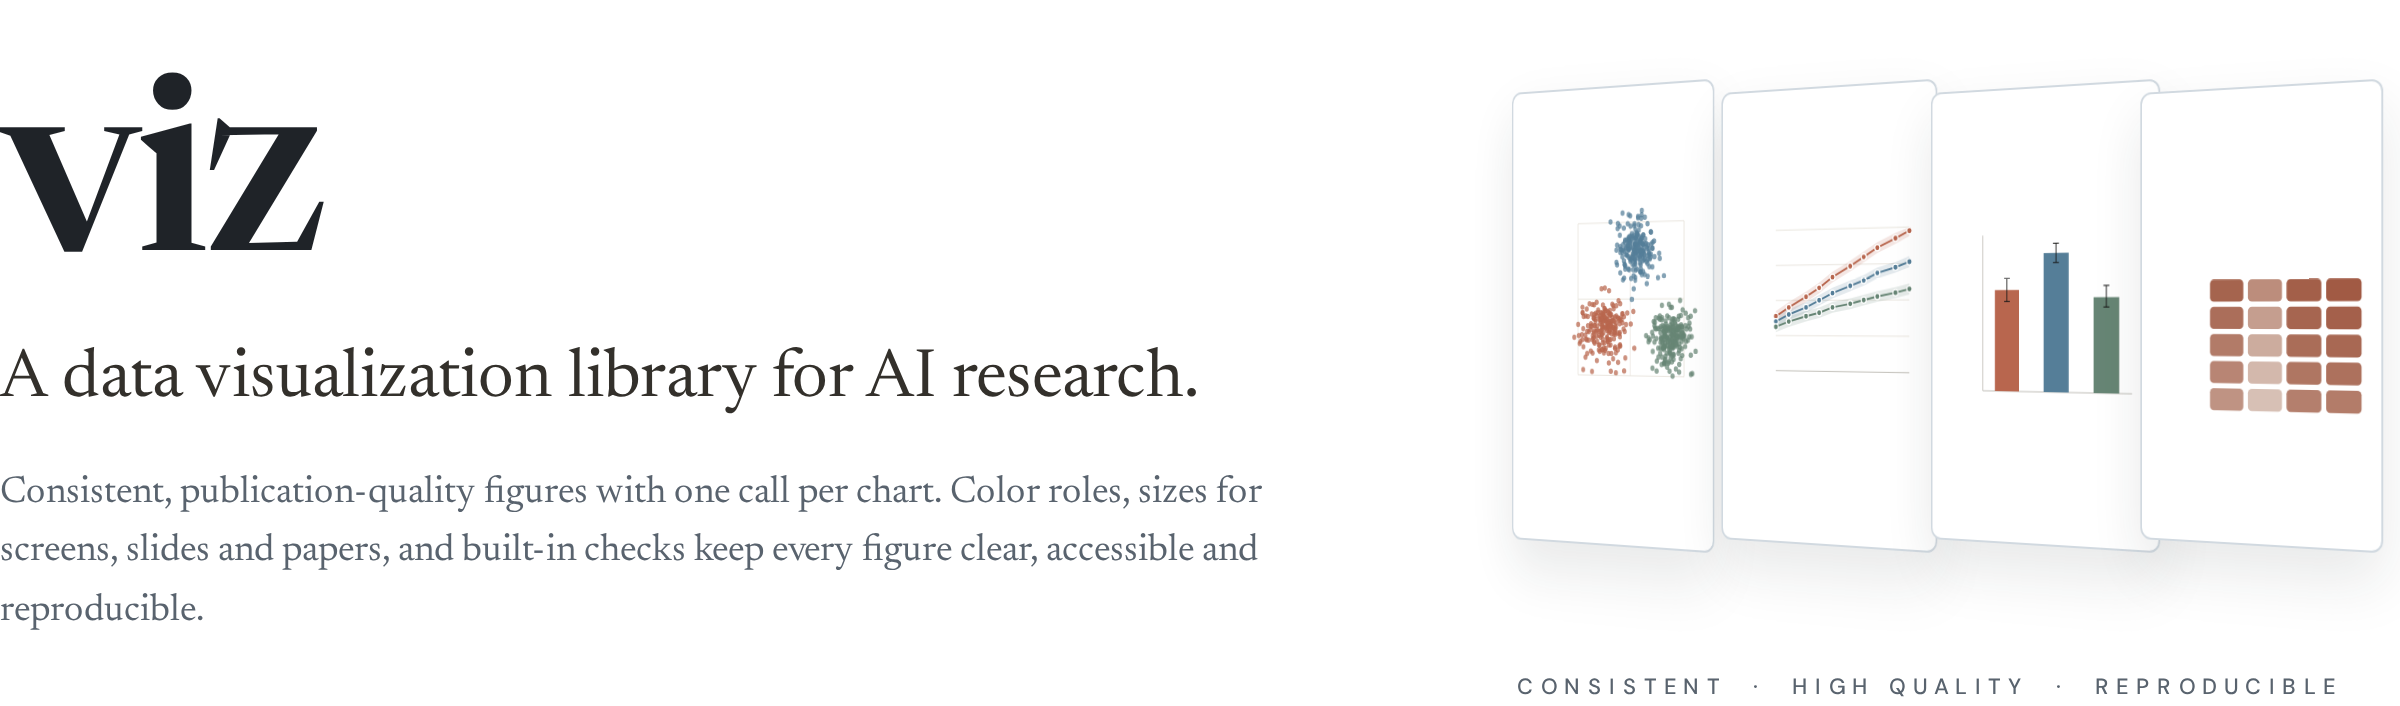
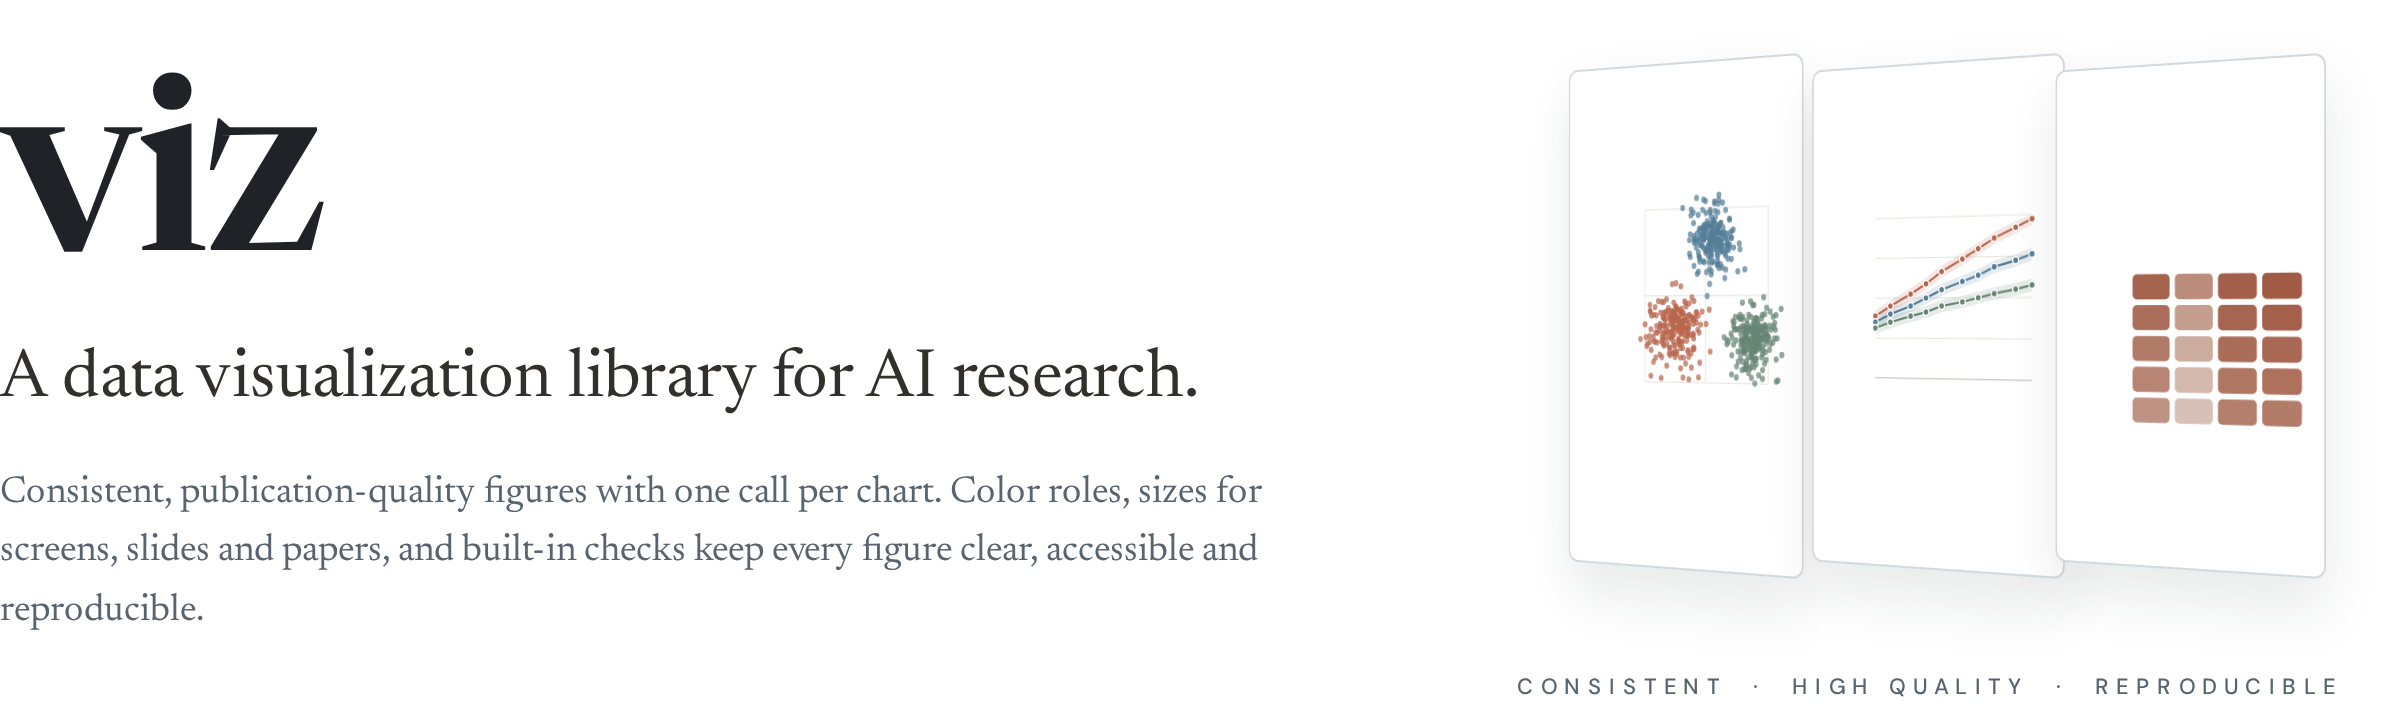
Landing header: three tilted cards instead of four

diff --git a/docs/readme/build.py b/docs/readme/build.py
@@ -77,7 +77,7 @@ SERIF, SANS = "Newsreader, Georgia, serif", "'DM Sans', Helvetica, Arial, sans-s
 
 def hero(t: dict) -> str:
     thumbs = examples(260, thumb=True)
-    order = ["Representation structure", "Scaling performance", "Human evaluations", "Cross-model comparison"]
+    order = ["Representation structure", "Scaling performance", "Cross-model comparison"]  # three, so none is cramped
     cards = "".join(f'<div class="card">{thumbs[k].svg(background=False)}</div>' for k in order)
     return f"""
 <style>
@@ -88,7 +88,7 @@ def hero(t: dict) -> str:
 .left p{{font:400 19px/1.55 {SERIF};color:{t["muted"]};margin:0}}
 .right{{width:470px;display:flex;flex-direction:column;align-items:center}}
 .fan{{display:flex;perspective:1200px;height:300px;align-items:center;padding-left:30px}}
-.card{{width:132px;height:228px;background:{CARD};border:1px solid {BORDER};border-radius:6px;
+.card{{width:150px;height:252px;background:{CARD};border:1px solid {BORDER};border-radius:6px;
   box-shadow:{t["shadow"]};transform:rotateY(-34deg);margin-left:-26px;overflow:hidden;
   display:flex;align-items:center;justify-content:center}}
 .card svg{{width:100%;height:auto}}
